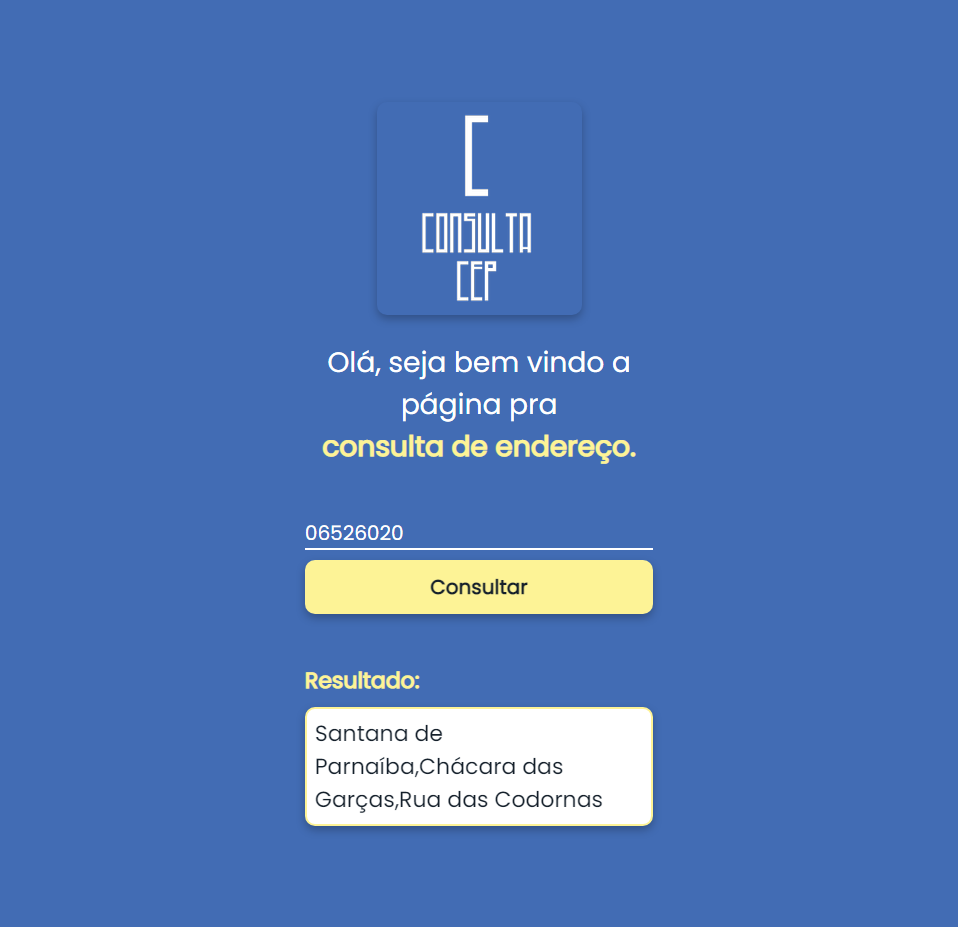
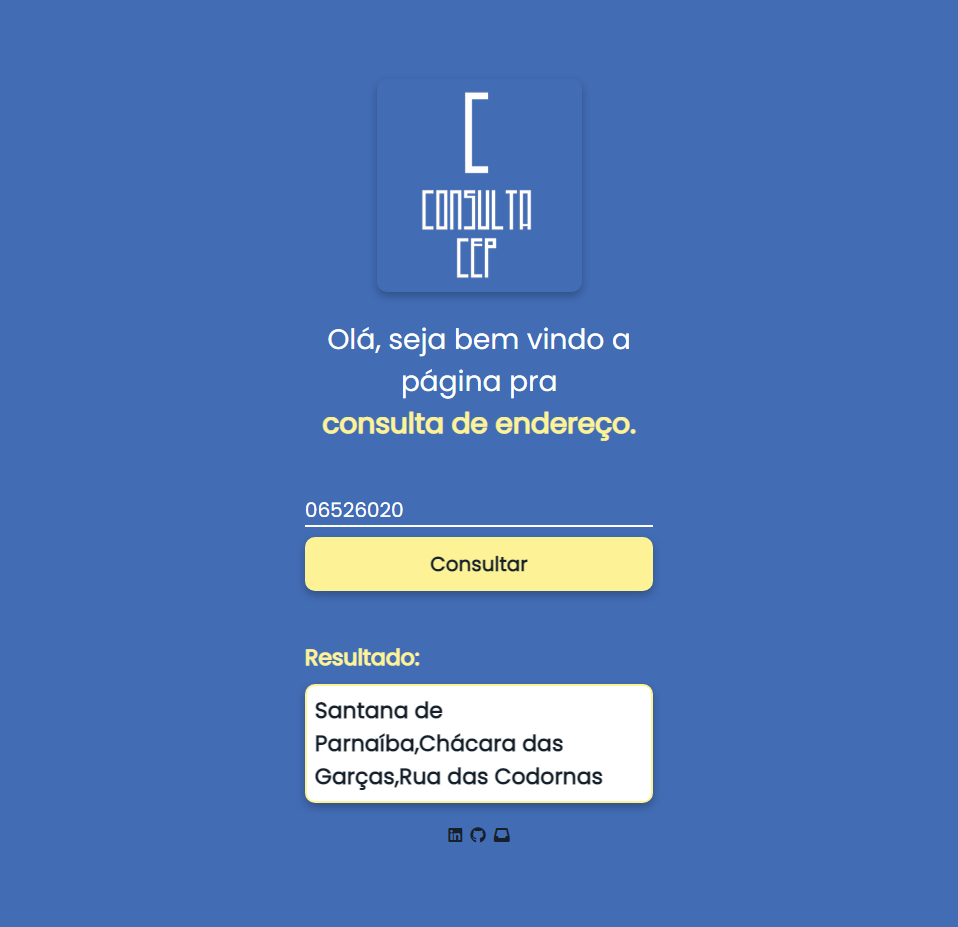
Link para redes sociais + mudanças no css

diff --git a/index.html b/index.html
@@ -35,8 +35,27 @@
                 </section>                
             </section>
         </main>
+
+        <footer>
+            <div class="footer-contato">
+                <a href="https://www.linkedin.com/in/rafaoliveirasouza/" target="_blank">
+                        <i class="fa-brands fa-linkedin"></i>
+                </a>
+    
+                <a href="https://github.com/rafaoliveira22/calculadora-js" target="_blank">
+                    <i class="fa-brands fa-github"></i>
+                </a>
+    
+                <a href="mailto:rafoliveira217@gmail.com" target="_blank">
+                    <i class="fa-solid fa-inbox"></i>
+                </a>
+            </div>
+        </footer>
 </div>
 
+    <!-- scripts javascript -->
+    <!-- fontawesone icons -->
+    <script src="https://kit.fontawesome.com/2a4a005d9c.js" crossorigin="anonymous"></script>
     <script src="assets/js/script.js"></script>
 </body>
 </html>

diff --git a/assets/css/style.css b/assets/css/style.css
@@ -115,6 +115,26 @@ main{
     filter: drop-shadow(0px 4px 4px rgba(0, 0, 0, 0.25));
 }
 
+.footer-contato{
+    display:flex;
+    flex-direction:row;
+    align-items: center;
+    gap: 8px;
+
+    margin-top:20px;
+}
+
+.footer-contato > a{
+    text-decoration:none;
+    color: #15202B;
+}
+
+.footer-contato > a:hover{
+    color: #FDF396;
+}
+
+
+
 
 
 

diff --git a/assets/js/script.js b/assets/js/script.js
@@ -24,7 +24,7 @@ const getAddress = async() =>{
 
 const loadAddress = async() =>{
     const street = document.querySelector('output#street')
-    street.innerHTML = await getAddress()
+    street.innerHTML = '<strong>' + await getAddress() + '</strong>'
 
 
 } // loadAddress
